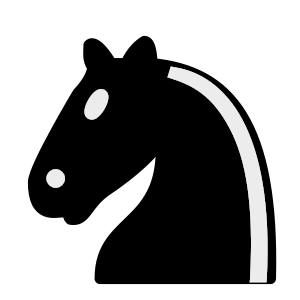
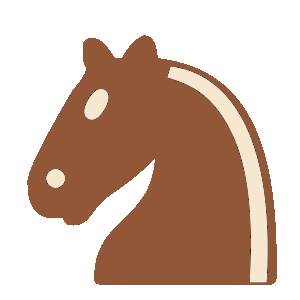
Finish board colors and piece creation

diff --git a/gangsta_chess/ui/ui.py b/gangsta_chess/ui/ui.py
@@ -18,7 +18,7 @@ board = None
 is_playing = False
 
 
-def set_image(button, image_file):
+def _set_image(button, image_file):
     img = Image.open(image_file)
     img = img.resize((35, 35), Image.ANTIALIAS)
     ph = ImageTk.PhotoImage(img)
@@ -26,33 +26,33 @@ def set_image(button, image_file):
     button.image = ph
 
 
-def get_piece(path):
+def _get_piece(path):
     img = Image.open(path)
     img = img.resize(tuple(get_square_size()), Image.ANTIALIAS)
     return ImageTk.PhotoImage(image=img)
 
 
 def _add_pieces(cur_board):
-    cur_board.w_king = get_piece("./resources/pieces/w_king.png")
-    cur_board.w_queen = get_piece("./resources/pieces/w_queen.png")
-    cur_board.w_bishop = get_piece("./resources/pieces/w_bishop.png")
-    cur_board.w_knight = get_piece("./resources/pieces/w_knight.png")
-    cur_board.w_rook = get_piece("./resources/pieces/w_rook.png")
-    cur_board.w_pawn = get_piece("./resources/pieces/w_pawn.png")
-    cur_board.b_king = get_piece("./resources/pieces/b_king.png")
-    cur_board.b_queen = get_piece("./resources/pieces/b_queen.png")
-    cur_board.b_bishop = get_piece("./resources/pieces/b_bishop.png")
-    cur_board.b_knight = get_piece("./resources/pieces/b_knight.png")
-    cur_board.b_rook = get_piece("./resources/pieces/b_rook.png")
-    cur_board.b_pawn = get_piece("./resources/pieces/b_pawn.png")
+    cur_board.w_king = _get_piece("./resources/pieces/w_king.png")
+    cur_board.w_queen = _get_piece("./resources/pieces/w_queen.png")
+    cur_board.w_bishop = _get_piece("./resources/pieces/w_bishop.png")
+    cur_board.w_knight = _get_piece("./resources/pieces/w_knight.png")
+    cur_board.w_rook = _get_piece("./resources/pieces/w_rook.png")
+    cur_board.w_pawn = _get_piece("./resources/pieces/w_pawn.png")
+    cur_board.b_king = _get_piece("./resources/pieces/b_king.png")
+    cur_board.b_queen = _get_piece("./resources/pieces/b_queen.png")
+    cur_board.b_bishop = _get_piece("./resources/pieces/b_bishop.png")
+    cur_board.b_knight = _get_piece("./resources/pieces/b_knight.png")
+    cur_board.b_rook = _get_piece("./resources/pieces/b_rook.png")
+    cur_board.b_pawn = _get_piece("./resources/pieces/b_pawn.png")
 
 
-def swap_play_pause(play_button):
+def _swap_play_pause(play_button):
     global is_playing
     if is_playing:
-        set_image(play_button, "./resources/play.png")
+        _set_image(play_button, "./resources/play.png")
     else:
-        set_image(play_button, "./resources/pause.png")
+        _set_image(play_button, "./resources/pause.png")
     is_playing = not is_playing
 
 
@@ -99,29 +99,29 @@ class Top:
         self.settings.configure(activebackground="#3e424B")
         self.settings.configure(background="#30475E")
         self.settings.configure(takefocus="v0")
-        set_image(self.settings, "./resources/settings.png")
+        _set_image(self.settings, "./resources/settings.png")
 
         self.play = tk.Button(top)
         self.play.place(relx=0.707, rely=0.8, height=35, width=45)
         self.play.configure(activebackground="#3e424B")
         self.play.configure(background="#30475E")
         self.play.configure(takefocus="0")
-        self.play.configure(command=lambda : swap_play_pause(self.play))
-        set_image(self.play, "./resources/play.png")
+        self.play.configure(command=lambda : _swap_play_pause(self.play))
+        _set_image(self.play, "./resources/play.png")
 
         self.backward = tk.Button(top)
         self.backward.place(relx=0.84, rely=0.8, height=35, width=45)
         self.backward.configure(activebackground="#3e424B")
         self.backward.configure(background="#30475E")
         self.backward.configure(takefocus="0")
-        set_image(self.backward, "./resources/backward.png")
+        _set_image(self.backward, "./resources/backward.png")
 
         self.forward = tk.Button(top)
         self.forward.place(relx=0.907, rely=0.8, height=35, width=45)
         self.forward.configure(activebackground="#3e424B")
         self.forward.configure(background="#30475E")
         self.forward.configure(takefocus="0")
-        set_image(self.forward, "./resources/forward.png")
+        _set_image(self.forward, "./resources/forward.png")
 
         self.TSeparator1 = ttk.Separator(top)
         self.TSeparator1.place(relx=0.68, rely=0.006, relheight=0.99)

diff --git a/gangsta_chess/main.py b/gangsta_chess/main.py
@@ -2,12 +2,12 @@ import gangsta_chess.ui.ui as ui
 import tkinter as tk
 
 
-def main_loop():
-    ui.get_board().delete("1,0")
-    ui.get_root().after(2000, main_loop)
+def tk_loop():
+    ui.get_root().after(2000, tk_loop)
 
 
 ui.initialize()
 ui.get_board().create_image(ui.get_square_cord(1, 0), image=ui.get_board().b_knight, anchor=tk.NW, tags="1,0")
-ui.get_root().after(2000, main_loop)
+ui.get_board().create_image(ui.get_square_cord(2, 0), image=ui.get_board().w_knight, anchor=tk.NW, tags="2,0")
+ui.get_root().after(2000, tk_loop)
 ui.display()
